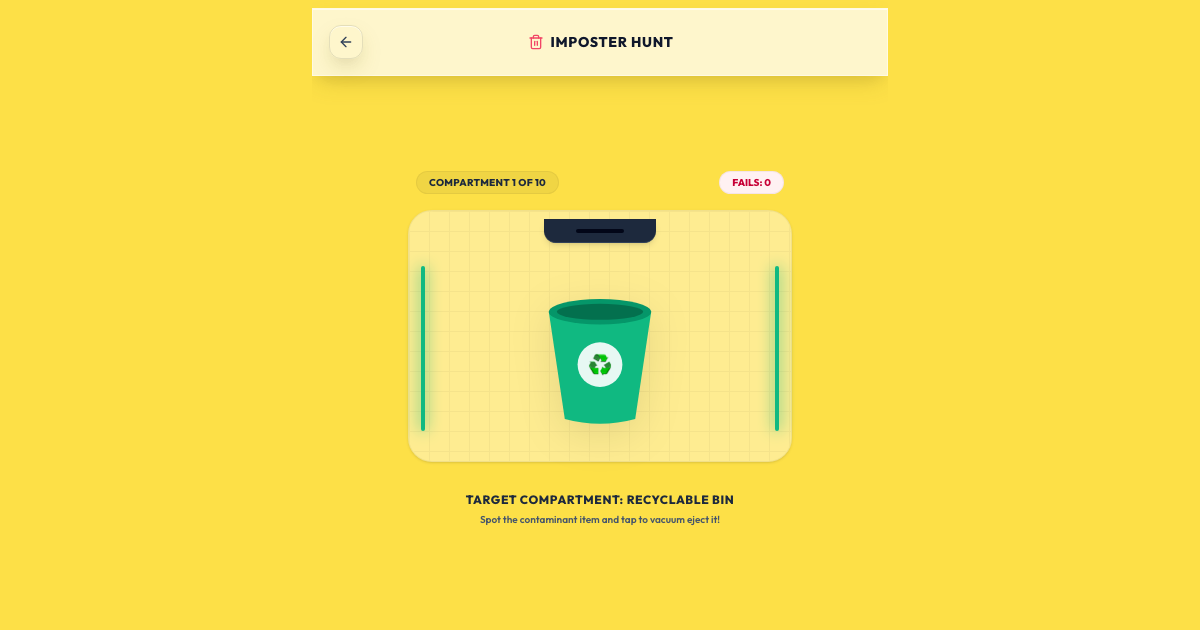
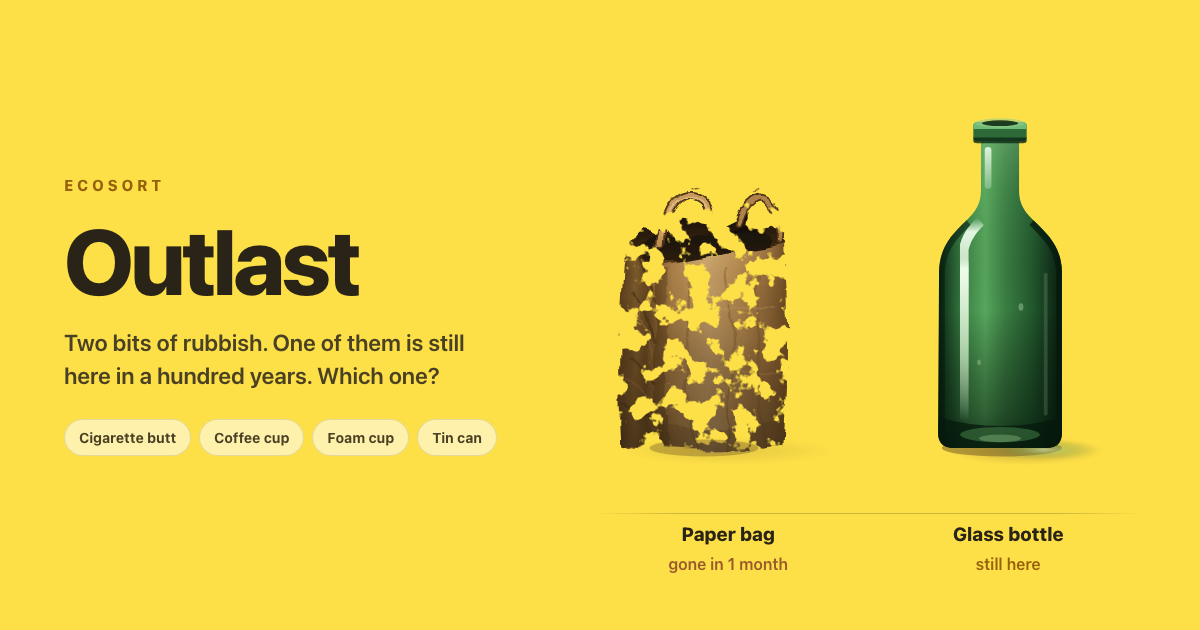
Give Outlast a share card, and let a fact be the thing you share
Two things.

The fact card now has a share of its own, and what it shares is the FACT
— "Coffee cup: it's not a paper cup, it's a plastic cup with paper round
it" — rather than the mode's stock "come and play this" line. The fact is
what somebody actually forwards to a friend; nobody forwards an advert.
ShareButton took an optional text override for it, which the run-over
card uses too so a shared result carries the streak and the fact
together. Compact variant on the fact card, because the primary action
there is Next pair and the full-width variant is a black slab that fights
the cream card it sits on.

And the card in the slot was a photograph of Imposter Hunt, a mode that
no longer exists. The poster is built from the real library art run
through the real decay function, so it cannot drift away from what the
game actually shows: a paper bag rotting through next to an untouched
glass bottle, which is the whole game in one frame and needs no caption.

The bag sits at 0.42 and the window is narrow. Past about 0.5 the hole
mask has taken so much that a stranger sees brown debris; past 0.7 the
lane is empty, which is a picture of nothing.

856 KB out of Chrome, 190 KB after the quantiser the capture script
already chains.

diff --git a/src/components/OutlastShareCard.tsx b/src/components/OutlastShareCard.tsx
@@ -1,0 +1,116 @@
+import React, { useEffect } from "react";
+import { ITEMS } from "./outlast/items";
+import { laneMarkup } from "./outlast/markup";
+import { apply } from "./outlast/decay";
+
+/* ==================================================================== *
+ *  Outlast — link preview poster.
+ *
+ *  A link preview is a POSTER, not a screenshot. The old card for this
+ *  slot was a photograph of Imposter Hunt, a mode that no longer exists.
+ *
+ *  Rendered at exactly 1200x630 and captured by
+ *  scripts/capture-gameplay-share-cards.mjs through ?card=<target>.
+ *  Deliberately a SEPARATE query from ?share=, which is the link a real
+ *  person follows: they should land in the game, not on a picture of it.
+ *
+ *  The two objects are the real library art run through the real decay
+ *  function, so the poster cannot drift away from what the game shows.
+ *  One eaten through, one untouched, side by side — which is the entire
+ *  game in a single frame and needs no caption to explain it.
+ * ==================================================================== */
+
+/** A paper bag most of the way gone against a pristine glass bottle. The
+ *  pairing matters: two objects somebody would throw away in the same
+ *  minute, with nothing in common by the time the clock stops. */
+// 0.42, and the window is narrow. Much past 0.5 the hole mask has taken so
+// much of the bag that all a stranger sees is brown debris; past 0.7 the lane
+// is empty, which is a picture of nothing. Here the silhouette still reads as
+// a bag, and a bag visibly coming apart says far more than its wreckage does.
+const LEFT = { id: "paper_bag", decay: 0.42 };
+const RIGHT = { id: "glass_bottle", decay: 0 };
+
+const CHIPS = ["Cigarette butt", "Coffee cup", "Foam cup", "Tin can"];
+
+export const OutlastShareCard: React.FC = () => {
+  useEffect(() => {
+    apply("sc0_", ITEMS[LEFT.id], LEFT.decay);
+    apply("sc1_", ITEMS[RIGHT.id], RIGHT.decay);
+  }, []);
+
+  const lane = (prefix: string, id: string) => (
+    <div style={{ flex: 1, display: "flex", flexDirection: "column", justifyContent: "flex-end" }}>
+      <svg
+        viewBox="0 0 300 420"
+        preserveAspectRatio="xMidYMax meet"
+        style={{ width: "100%", height: 400, display: "block" }}
+        dangerouslySetInnerHTML={{ __html: laneMarkup(prefix, ITEMS[id]) }}
+      />
+    </div>
+  );
+
+  return (
+    <div
+      style={{
+        width: 1200, height: 630, background: "#FDE047", position: "relative",
+        overflow: "hidden", display: "flex", alignItems: "center",
+        fontFamily: 'ui-sans-serif, system-ui, -apple-system, "Segoe UI", Roboto, sans-serif',
+        color: "#2A2418", WebkitFontSmoothing: "antialiased",
+      }}
+    >
+      <div style={{ width: 560, paddingLeft: 64, paddingRight: 24, flexShrink: 0 }}>
+        <div style={{
+          fontSize: 15, fontWeight: 800, letterSpacing: ".26em",
+          textTransform: "uppercase", color: "#96600C", marginBottom: 20,
+        }}>
+          EcoSort
+        </div>
+        <div style={{ fontSize: 92, fontWeight: 800, letterSpacing: "-.035em", lineHeight: .95 }}>
+          Outlast
+        </div>
+        <p style={{
+          marginTop: 22, marginBottom: 0, fontSize: 23, lineHeight: 1.45,
+          fontWeight: 600, color: "#4A4024", maxWidth: 440,
+        }}>
+          Two bits of rubbish. One of them is still here in a hundred years.
+          Which one?
+        </p>
+        <div style={{ marginTop: 26, display: "flex", flexWrap: "wrap", gap: 8 }}>
+          {CHIPS.map((c) => (
+            <span key={c} style={{
+              fontSize: 14, fontWeight: 700, color: "#4A4024",
+              background: "rgba(255,255,255,.55)", border: "1px solid rgba(42,36,24,.12)",
+              borderRadius: 999, padding: "7px 14px",
+            }}>
+              {c}
+            </span>
+          ))}
+        </div>
+      </div>
+
+      <div style={{ flex: 1, display: "flex", alignItems: "flex-end", gap: 8, paddingRight: 56, paddingBottom: 96 }}>
+        {lane("sc0_", LEFT.id)}
+        {lane("sc1_", RIGHT.id)}
+      </div>
+
+      {/* The verdicts, which are what make the two halves mean something */}
+      <div style={{
+        position: "absolute", right: 56, bottom: 54, width: 552,
+        display: "flex", gap: 8, textAlign: "center",
+      }}>
+        <div style={{ flex: 1 }}>
+          <div style={{ fontSize: 19, fontWeight: 800 }}>Paper bag</div>
+          <div style={{ fontSize: 16, fontWeight: 600, color: "#9A5A2E", marginTop: 4 }}>gone in 1 month</div>
+        </div>
+        <div style={{ flex: 1 }}>
+          <div style={{ fontSize: 19, fontWeight: 800 }}>Glass bottle</div>
+          <div style={{ fontSize: 16, fontWeight: 600, color: "#96600C", marginTop: 4 }}>still here</div>
+        </div>
+      </div>
+      <div style={{
+        position: "absolute", right: 56, bottom: 116, width: 552, height: 1,
+        background: "linear-gradient(to right, transparent, rgba(42,36,24,.22) 15%, rgba(42,36,24,.22) 85%, transparent)",
+      }} />
+    </div>
+  );
+};

diff --git a/src/screens/OutlastScreen.tsx b/src/screens/OutlastScreen.tsx
@@ -366,7 +366,10 @@ export const OutlastScreen: React.FC<OutlastScreenProps> = ({ onBack }) => {
                     <button className="ol-again" onClick={restart}>
                       <RotateCcw size={14} /> Go again
                     </button>
-                    <ShareButton target={{ kind: "mode", id: "contamination" }} />
+                    <ShareButton
+                      target={{ kind: "mode", id: "contamination" }}
+                      text={`I got ${streak} in a row on EcoSort Outlast. ${note?.text ?? ""}`.trim()}
+                    />
                   </div>
                 </motion.div>
               ) : (
@@ -382,7 +385,20 @@ export const OutlastScreen: React.FC<OutlastScreenProps> = ({ onBack }) => {
                     {noteSubject && <em>{noteSubject}</em>}
                   </span>
                   <p>{note?.text}</p>
-                  <button className="ol-note-go" onClick={deal}>Next pair</button>
+                  <div className="ol-note-actions">
+                    <button className="ol-note-go" onClick={deal}>Next pair</button>
+                    {/* Shares the FACT, not "come and play this mode" — the
+                        fact is the thing somebody actually forwards.
+                        Compact, because the primary action here is Next pair,
+                        and the full-width variant is a black slab that fights
+                        the card it is sitting on. */}
+                    <ShareButton
+                      compact
+                      target={{ kind: "mode", id: "contamination" }}
+                      label="Share this fact"
+                      text={note ? `${noteSubject ? noteSubject + ": " : ""}${note.text}` : undefined}
+                    />
+                  </div>
                 </motion.div>
               )}
             </div>

diff --git a/src/components/ShareButton.tsx b/src/components/ShareButton.tsx
@@ -15,6 +15,9 @@ interface ShareButtonProps {
   label?: string;
   compact?: boolean;
   className?: string;
+  /** Replaces the mode's stock share line. For sharing a specific thing the
+   *  player has just seen rather than the mode in general. */
+  text?: string;
 }
 
 const SOCIAL_LABELS = {
@@ -30,6 +33,7 @@ export const ShareButton: FC<ShareButtonProps> = ({
   label = "Share result",
   compact = false,
   className = "",
+  text,
 }) => {
   const [isOpen, setIsOpen] = useState(false);
   const [copied, setCopied] = useState(false);
@@ -59,7 +63,7 @@ export const ShareButton: FC<ShareButtonProps> = ({
     try {
       await navigator.share({
         title: details.title,
-        text: getShareText(target),
+        text: text ?? getShareText(target),
         url: getShareUrl(target),
       });
       setIsOpen(false);
@@ -92,7 +96,7 @@ export const ShareButton: FC<ShareButtonProps> = ({
 
   const openSocialShare = (platform: keyof typeof SOCIAL_LABELS) => {
     window.open(
-      getSocialShareUrl(platform, target),
+      getSocialShareUrl(platform, target, text),
       "_blank",
       "noopener,noreferrer,width=720,height=640",
     );

diff --git a/src/components/shareCards.ts b/src/components/shareCards.ts
@@ -1,5 +1,6 @@
 import type { FC } from "react";
 import { DetectiveShareCard } from "./ShareCard";
+import { OutlastShareCard } from "./OutlastShareCard";
 
 /** Which share targets have a purpose-made poster. Anything not listed is
  *  still captured from live gameplay, which is the right card for a mode
@@ -10,4 +11,7 @@ import { DetectiveShareCard } from "./ShareCard";
  *  nothing but components and fast refresh keeps working. */
 export const SHARE_CARDS: Record<string, FC> = {
   "mode-detective": DetectiveShareCard,
+  // The route id is still "contamination" so old links keep resolving, but
+  // the mode behind it is Outlast now.
+  "mode-contamination": OutlastShareCard,
 };

diff --git a/src/utils/share.ts b/src/utils/share.ts
@@ -102,9 +102,13 @@ export const parseShareQuery = (value: string | null): ShareTarget | null => {
 export const getSocialShareUrl = (
   platform: "x" | "facebook" | "whatsapp" | "linkedin" | "telegram",
   target: ShareTarget,
+  /** Overrides the mode's stock line. Outlast passes the fact the player has
+   *  just been shown, because that — not "come and play this mode" — is the
+   *  thing somebody actually forwards to a friend. */
+  overrideText?: string,
 ): string => {
   const shareUrl = getShareUrl(target);
-  const text = getShareText(target);
+  const text = overrideText ?? getShareText(target);
 
   switch (platform) {
     case "x":

diff --git a/src/index.css b/src/index.css
@@ -751,6 +751,10 @@ body,
   content: "\00a0\00a0\00b7\00a0\00a0"; color: rgba(169,109,18,.45);
 }
 .ol-note p { margin: 0; font-size: 15px; line-height: 1.6; color: #453D30; }
+.ol-note-actions { margin-top: 16px; display: flex; gap: 10px; align-items: stretch; }
+.ol-note-actions .ol-note-go { margin-top: 0; flex: 1 1 auto; }
+.ol-note-actions > div { display: flex; }
+.ol-note-actions button[aria-haspopup="menu"] { height: 100%; border-radius: 999px; padding: 0 16px; }
 .ol-note-go {
   margin-top: 16px; width: 100%;
   background: #F0C74E; border: 0; color: #3A2F12;
